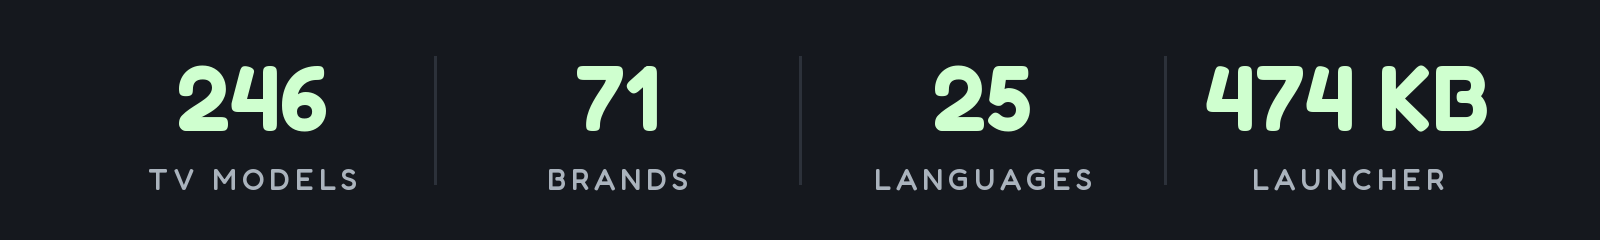
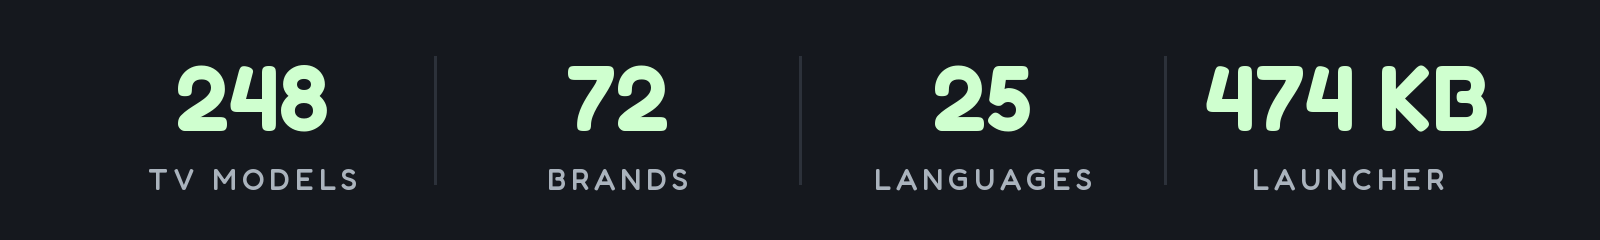
README: counts and card after Round S (248 TV models, 72 brands)

Changed region(s): [[0.3438, 0.2625, 0.4375, 0.5542], [0.125, 0.2625, 0.2188, 0.4375], [0.1562, 0.4375, 0.1875, 0.4958]]

diff --git a/tools/readme_stats.py b/tools/readme_stats.py
@@ -5,7 +5,7 @@ and rebuild the card with tools/readme_card.py. Fredoka is the variable TTF from
 import sys
 from PIL import Image, ImageDraw, ImageFont
 FONT, OUT = sys.argv[1], sys.argv[2]
-STATS = [("246", "TV MODELS"), ("71", "BRANDS"), ("25", "LANGUAGES"), ("474 KB", "LAUNCHER")]
+STATS = [("248", "TV MODELS"), ("72", "BRANDS"), ("25", "LANGUAGES"), ("474 KB", "LAUNCHER")]
 W, H = 1600, 240
 img = Image.new("RGB", (W, H), "#15181e"); d = ImageDraw.Draw(img)
 def f(size, wt):

diff --git a/README.md b/README.md
@@ -19,7 +19,7 @@
 </p>
 
 <p align="center">
-  <a href="docs/PRESS.md"><img src="docs/card.jpg" alt="246 TV models · 71 brands · 25 languages · 474 KB launcher. Featured in TechCrunch, TechRadar, Tom's Guide, Mashable, Android Authority, XDA, FlatpanelsHD, It's FOSS, Phandroid, GIGAZINE, Xataka, WinFuture, Frandroid, Macitynet, Techaeris, TechPP and 171 more: 187 articles from 31 countries. Before: stock Google TV home with a sponsored ad. After: the Clean Your TV launcher." width="800"></a>
+  <a href="docs/PRESS.md"><img src="docs/card.jpg" alt="248 TV models · 72 brands · 25 languages · 474 KB launcher. Featured in TechCrunch, TechRadar, Tom's Guide, Mashable, Android Authority, XDA, FlatpanelsHD, It's FOSS, Phandroid, GIGAZINE, Xataka, WinFuture, Frandroid, Macitynet, Techaeris, TechPP and 171 more: 187 articles from 31 countries. Before: stock Google TV home with a sponsored ad. After: the Clean Your TV launcher." width="800"></a>
 </p>
 
 **The viral tweet:** [x.com/gathint/status/2111379569030939102](https://x.com/gathint/status/2111379569030939102)
